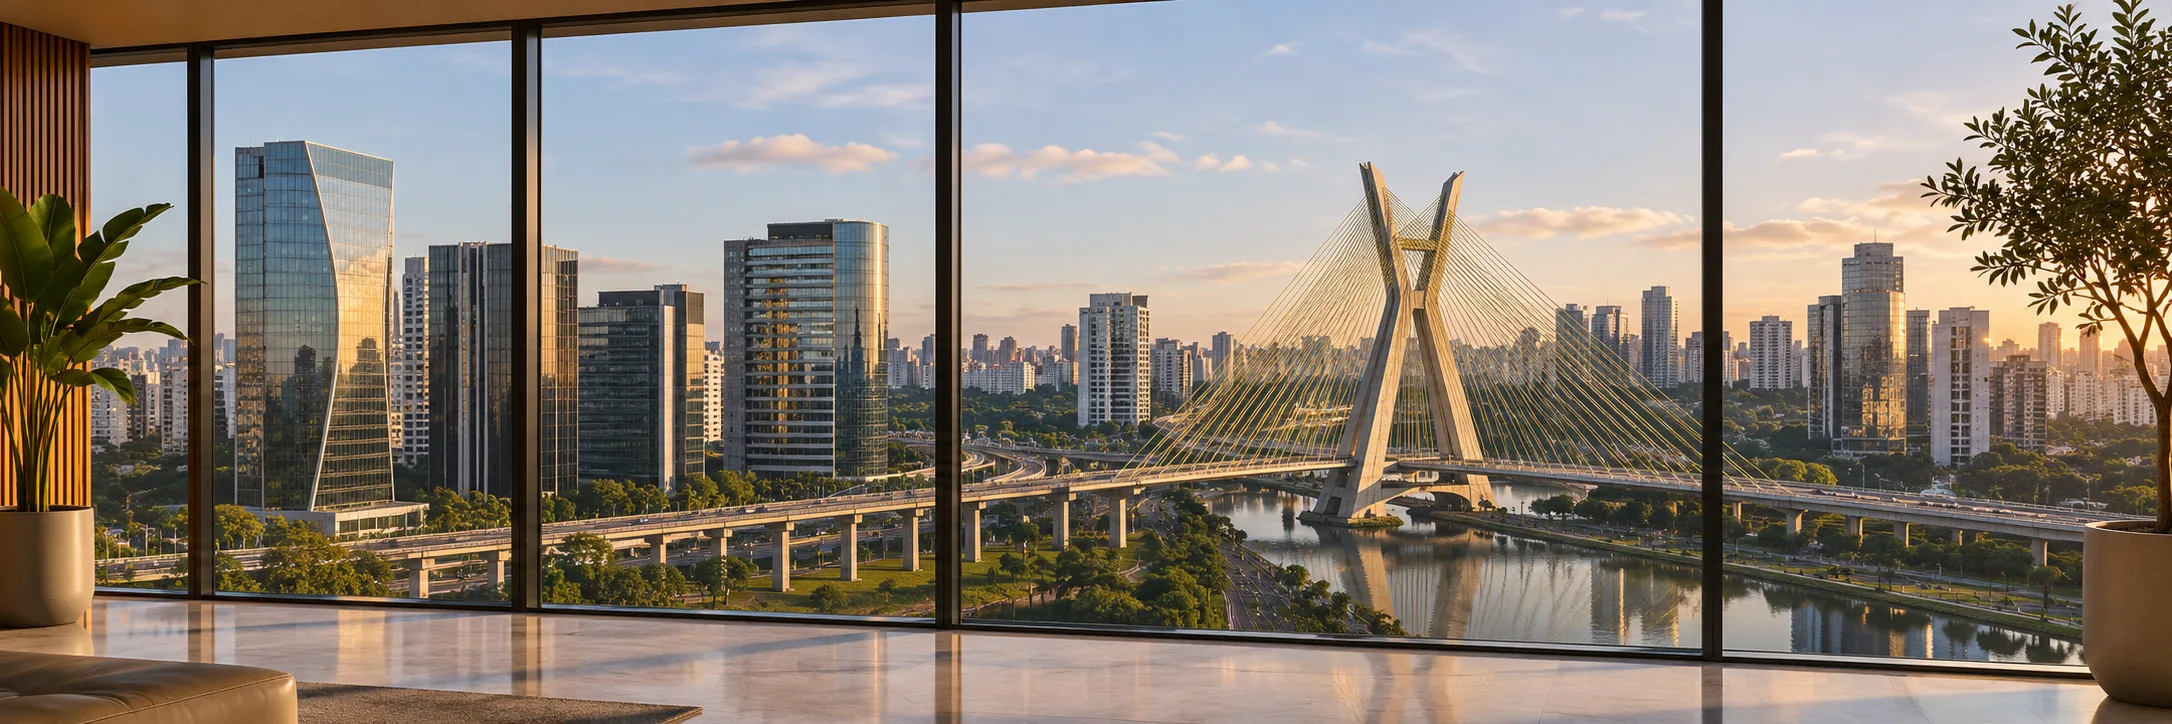
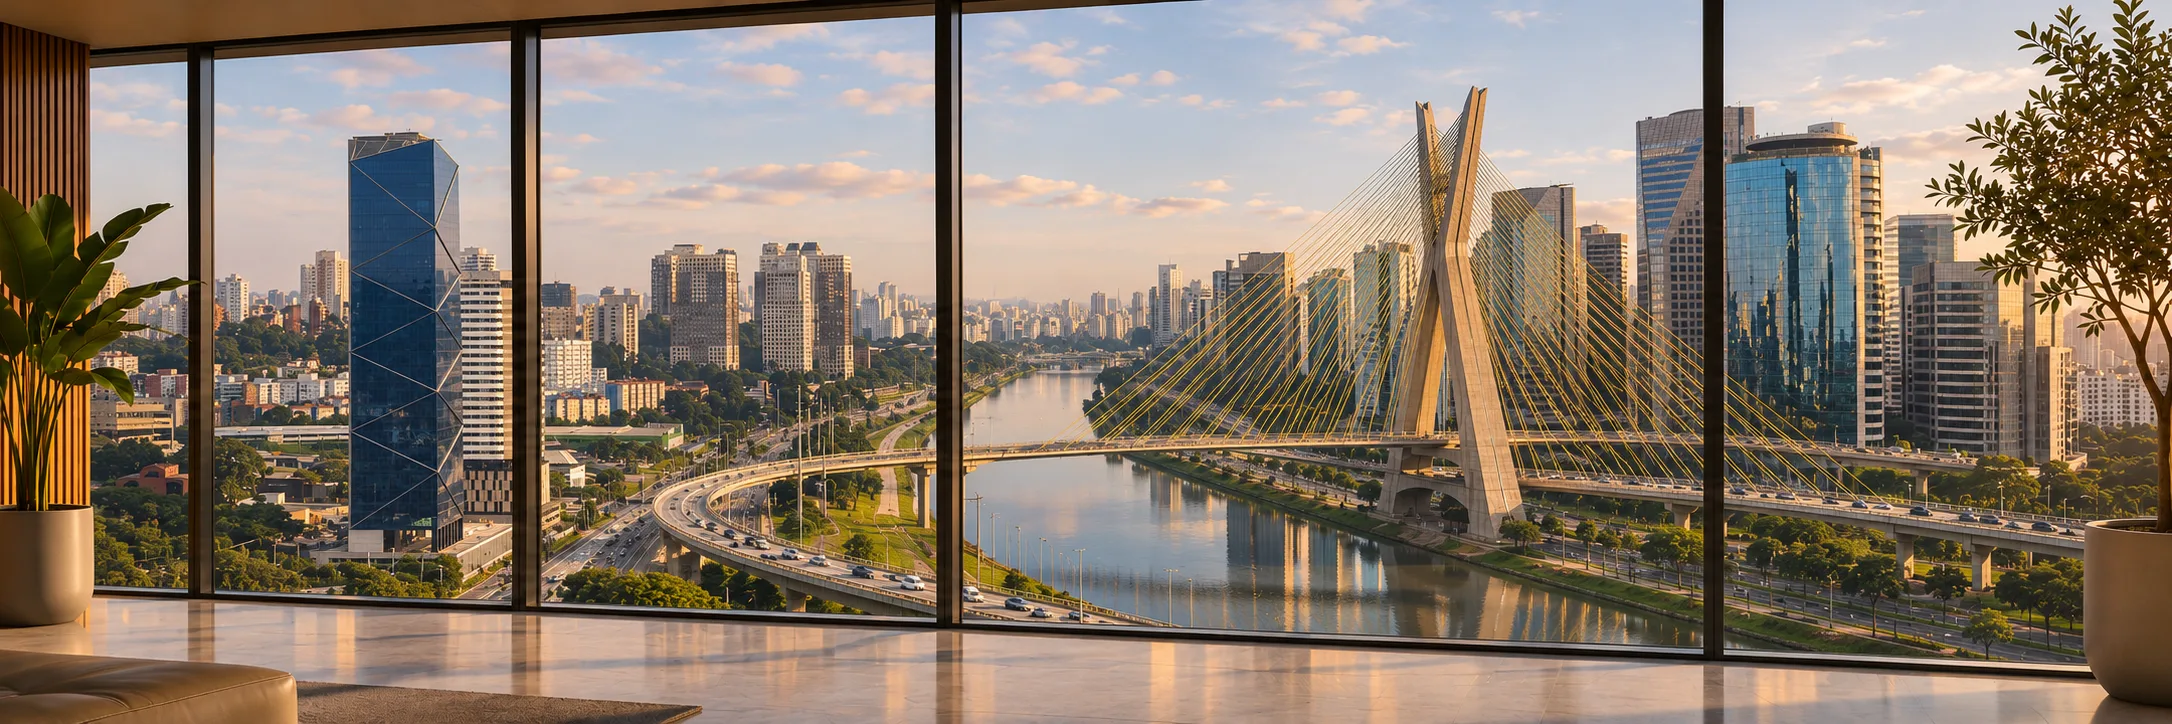
Refine Ponte Estaiada panorama using geographical photo references

diff --git a/src/index.css b/src/index.css
@@ -650,8 +650,8 @@ img {
 .rd-hero-intro h1 span{display:block;color:#fff}
 .rd-hero-intro h1 span:last-child{color:#a5d3ef;text-align:right;margin-top:.08em}
 .rd-hero-intro>p{max-width:31em;margin:clamp(26px,2.2vw,46px) auto 0;font-size:clamp(17px,1.59vw,33px);line-height:1.66;color:#d2e0eb}
-.rd-hero-panorama{width:100%;height:clamp(190px,12vw,280px);overflow:hidden;background:#d2e0eb}
-.rd-hero-panorama img{display:block;width:100%;height:100%;object-fit:cover;object-position:center 52%}
+.rd-hero-panorama{width:100%;height:clamp(220px,21vw,440px);overflow:hidden;background:#d2e0eb}
+.rd-hero-panorama img{display:block;width:100%;height:100%;object-fit:cover;object-position:center 30%}
 .rd-hero-actions{display:flex;align-items:center;justify-content:center;gap:clamp(24px,2.2vw,46px);padding-block:clamp(17px,1.2vw,26px) clamp(22px,1.9vw,40px)}
 .rd-hero-actions .rd-button{background:#3072a4;font-size:clamp(15px,1.4vw,29px);padding:clamp(14px,1.3vw,27px) clamp(22px,2vw,42px);text-align:center}
 .rd-hero-actions .rd-button:hover{background:#185d91}
@@ -668,6 +668,7 @@ img {
   .rd-hero-intro h1 span:last-child{text-align:left;margin-top:.12em}
   .rd-hero-intro>p{margin-inline:0;max-width:36em}
   .rd-hero-panorama{height:auto;aspect-ratio:16/9}
+  .rd-hero-panorama img{object-position:62% center}
   .rd-hero-actions{flex-wrap:wrap;justify-content:flex-start;padding-block:24px 32px;gap:20px}
 }
 @media(max-width:520px){

diff --git a/src/shared/layout/Hero.jsx b/src/shared/layout/Hero.jsx
@@ -6,7 +6,7 @@ export default function Hero() {
         <p>Conectamos visão estratégica, estrutura organizacional e disciplina de execução para apoiar empresas em seus desafios de crescimento e transformação.</p>
       </div>
       <div className="rd-hero-panorama">
-        <img src="/im-hero-panoramico.webp" width="2172" height="724" alt="Vista panorâmica de São Paulo e da Ponte Estaiada pelas janelas de um escritório contemporâneo" fetchPriority="high" loading="eager" />
+        <img src="/im-hero-panoramico.webp" width="2172" height="724" alt="Reconstituição ilustrativa da Ponte Estaiada Octávio Frias de Oliveira, do Rio Pinheiros e do entorno da Berrini, em São Paulo, vistos de um escritório" fetchPriority="high" loading="eager" />
       </div>
       <div className="rd-panoramic-shell rd-hero-actions">
         <a href="#atuacao" className="rd-button">Conheça nossas soluções</a>
